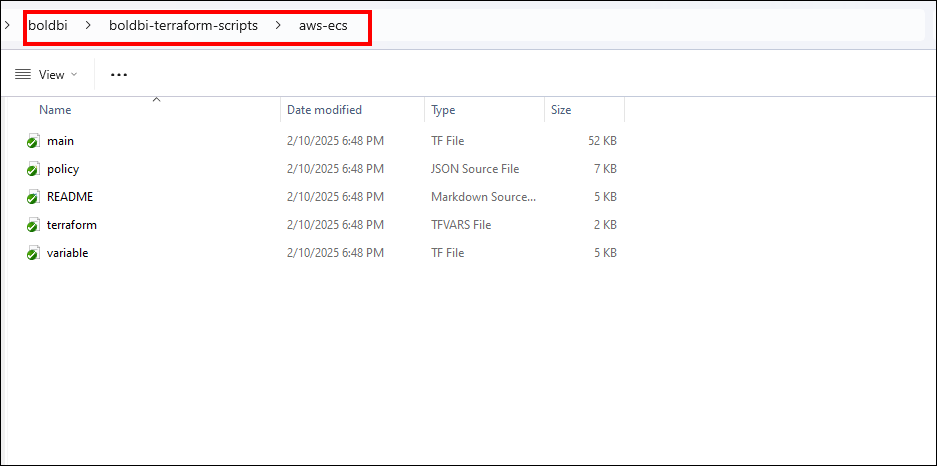
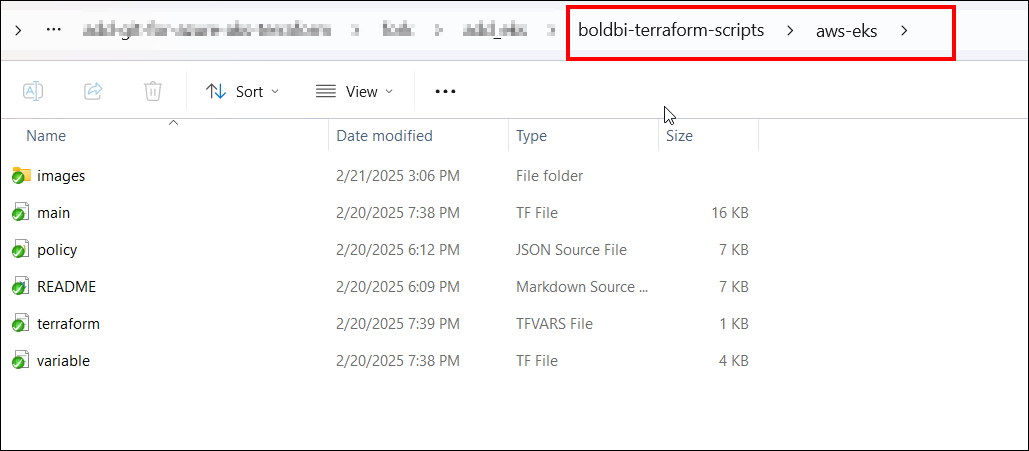
change the directory-structure image.

diff --git a/aws-eks/README.md b/aws-eks/README.md
@@ -44,6 +44,8 @@ Clone the Terraform scripts repository using the following command:
 cd boldbi-terraform-scripts/aws-eks
 ```
 
+![directory-structure](./images/directory-structure.png)
+
 ### Step 3: Set Environment Variables
 
 To authenticate Terraform with your AWS account, add the following environment variables to your [local system](https://chlee.co/how-to-setup-environment-variables-for-windows-mac-and-linux/) variables. Alternatively, you can log in using [aws configure](https://docs.aws.amazon.com/cli/v1/userguide/cli-chap-configure.html)
